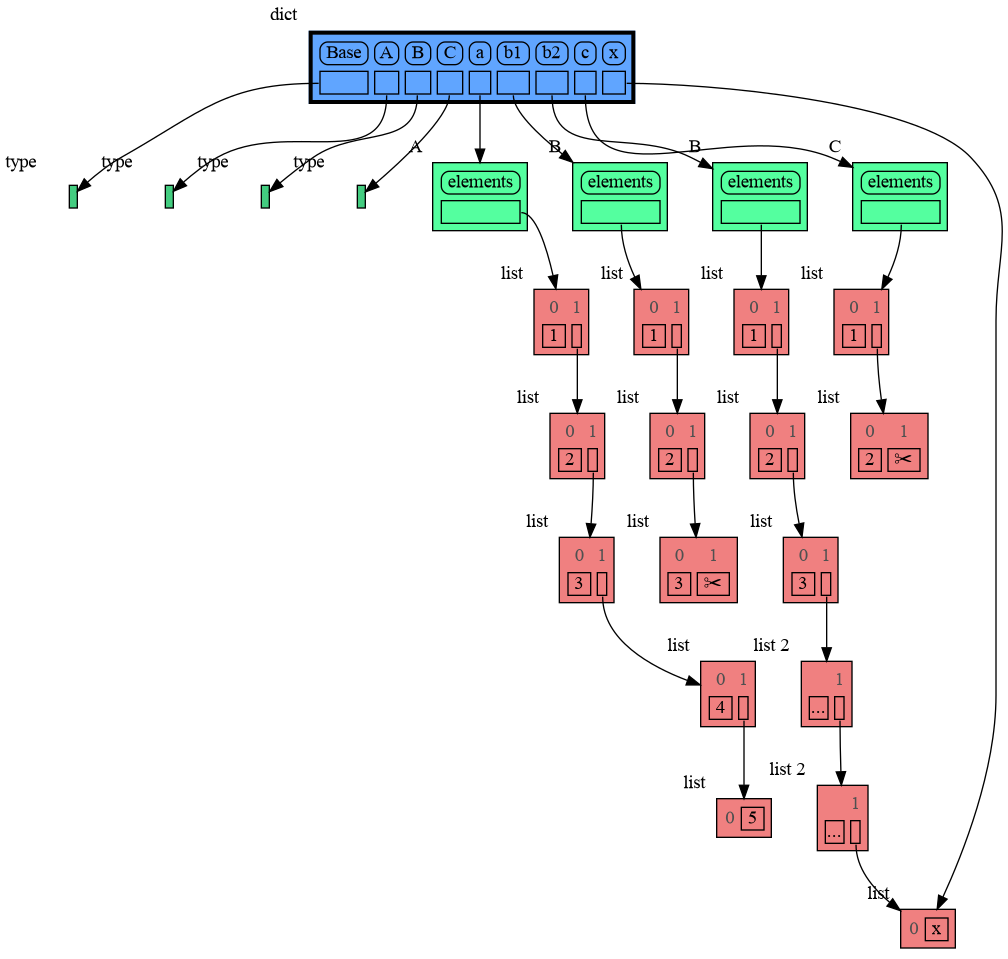
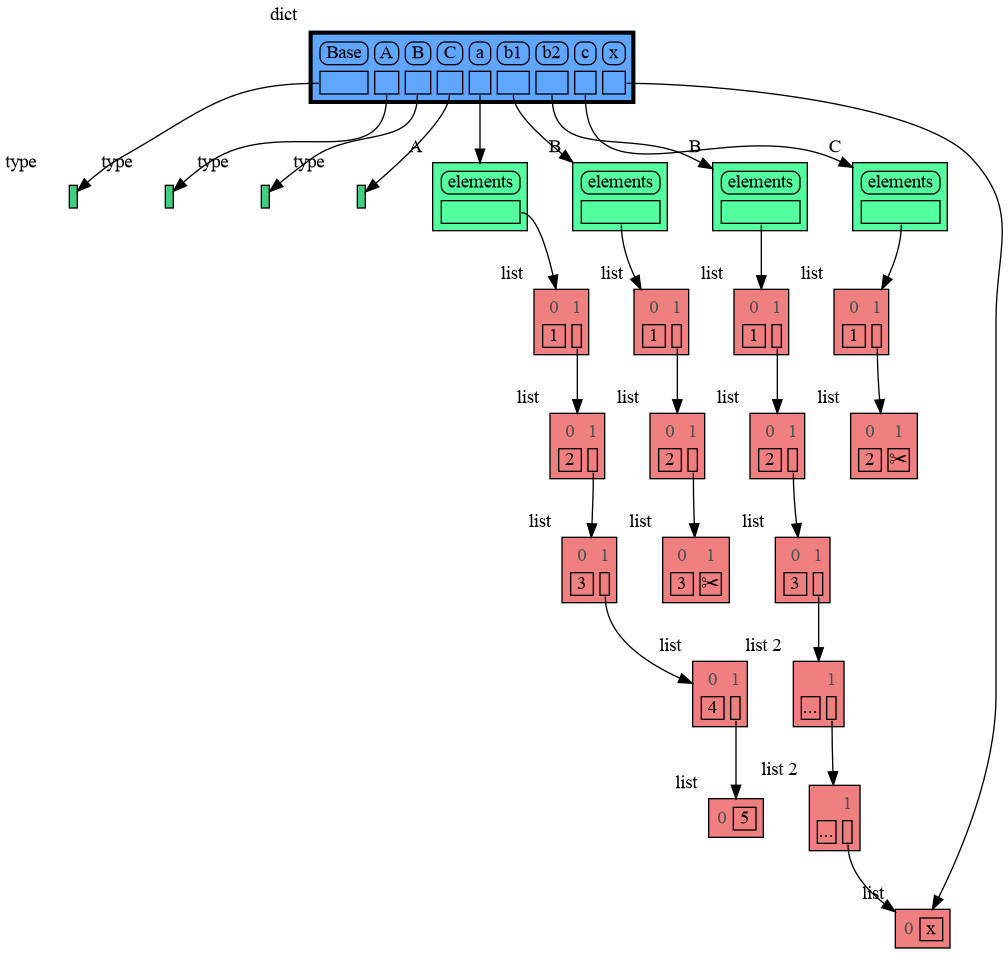
using config_helpers.get_to_string() to convert values to string

diff --git a/memory_graph/html_table.py b/memory_graph/html_table.py
@@ -13,21 +13,10 @@ def html_table_frame(s, border, color, spacing=5):
     return (f'<\n<TABLE BORDER="{border}" CELLBORDER="1" CELLSPACING="{spacing}" CELLPADDING="0" BGCOLOR="{color}" PORT="table">\n    <TR>' +
             s + '</TR>\n</TABLE>\n>')
 
-def to_string(data):
-    """ Convert data to string. """
-    try:
-        data_type = type(data)
-        if data_type in config.type_to_string:
-            return config.type_to_string[data_type](data)
-        return str(data)
-    except Exception as e:
-        return f'no stringification, {type(e).__name__}: {e}'
-
-def format_string(s):
-    """ Helper function to format the string s to be shown in the graph. Setting the max_string_length and escaping html characters. """
-    s = to_string(s)
-    #s = config_helpers.get_to_string(s)
-    s = html.escape(s)
+def format_string(value):
+    """ Helper function to format 'value' to be shown in the graph. We escape html characters and convert newlines to <BR/> tags. """
+    to_string = config_helpers.get_to_string(value)
+    s = html.escape(to_string(value))
     return s.replace('\n', ' <BR/> ')
 
 class HTML_Table:
@@ -66,11 +55,6 @@ class HTML_Table:
             self.html += '</TR>\n    <TR>'
             self.add_new_line_flag = False
 
-    def add_string(self, s, border=0):
-        """ Add a string s to the table. """
-        self.html += f'<TD BORDER="{border}">'+format_string(s)+'</TD>'
-        self.is_empty = False
-
     def add_index(self, s):
         """ Add an index s to the table. """
         self.check_add_new_line()
@@ -85,15 +69,21 @@ class HTML_Table:
             if child_id in id_to_slices:
                 self.add_reference(node, child, rounded, border, dashed)
             else:
-                self.add_value(config.graph_cut_symbol, rounded, border)
+                self.add_string(config.graph_cut_symbol, rounded, border)
         else:
             self.add_value(child, rounded, border)
 
-    def add_value(self, s, rounded=False, border=1):
-        """ Helper function to add a value s to the table. """
+    def add_string(self, s, rounded=False, border=0):
+        """ Add a string s to the table. """
+        r = ' STYLE="ROUNDED"' if rounded else ''
+        self.html += f'<TD BORDER="{border}"{r}>{s}</TD>'
+        self.is_empty = False
+
+    def add_value(self, value, rounded=False, border=1):
+        """ Helper function to add 'value' to the table. """
         self.check_add_new_line()
         r = ' STYLE="ROUNDED"' if rounded else ''
-        self.html += f'<TD BORDER="{border}"{r}> {format_string(s)} </TD>'
+        self.html += f'<TD BORDER="{border}"{r}> {format_string(value)} </TD>'
         self.col_count += 1
 
     def add_reference(self, node, child, rounded=False, border=1, dashed=False):